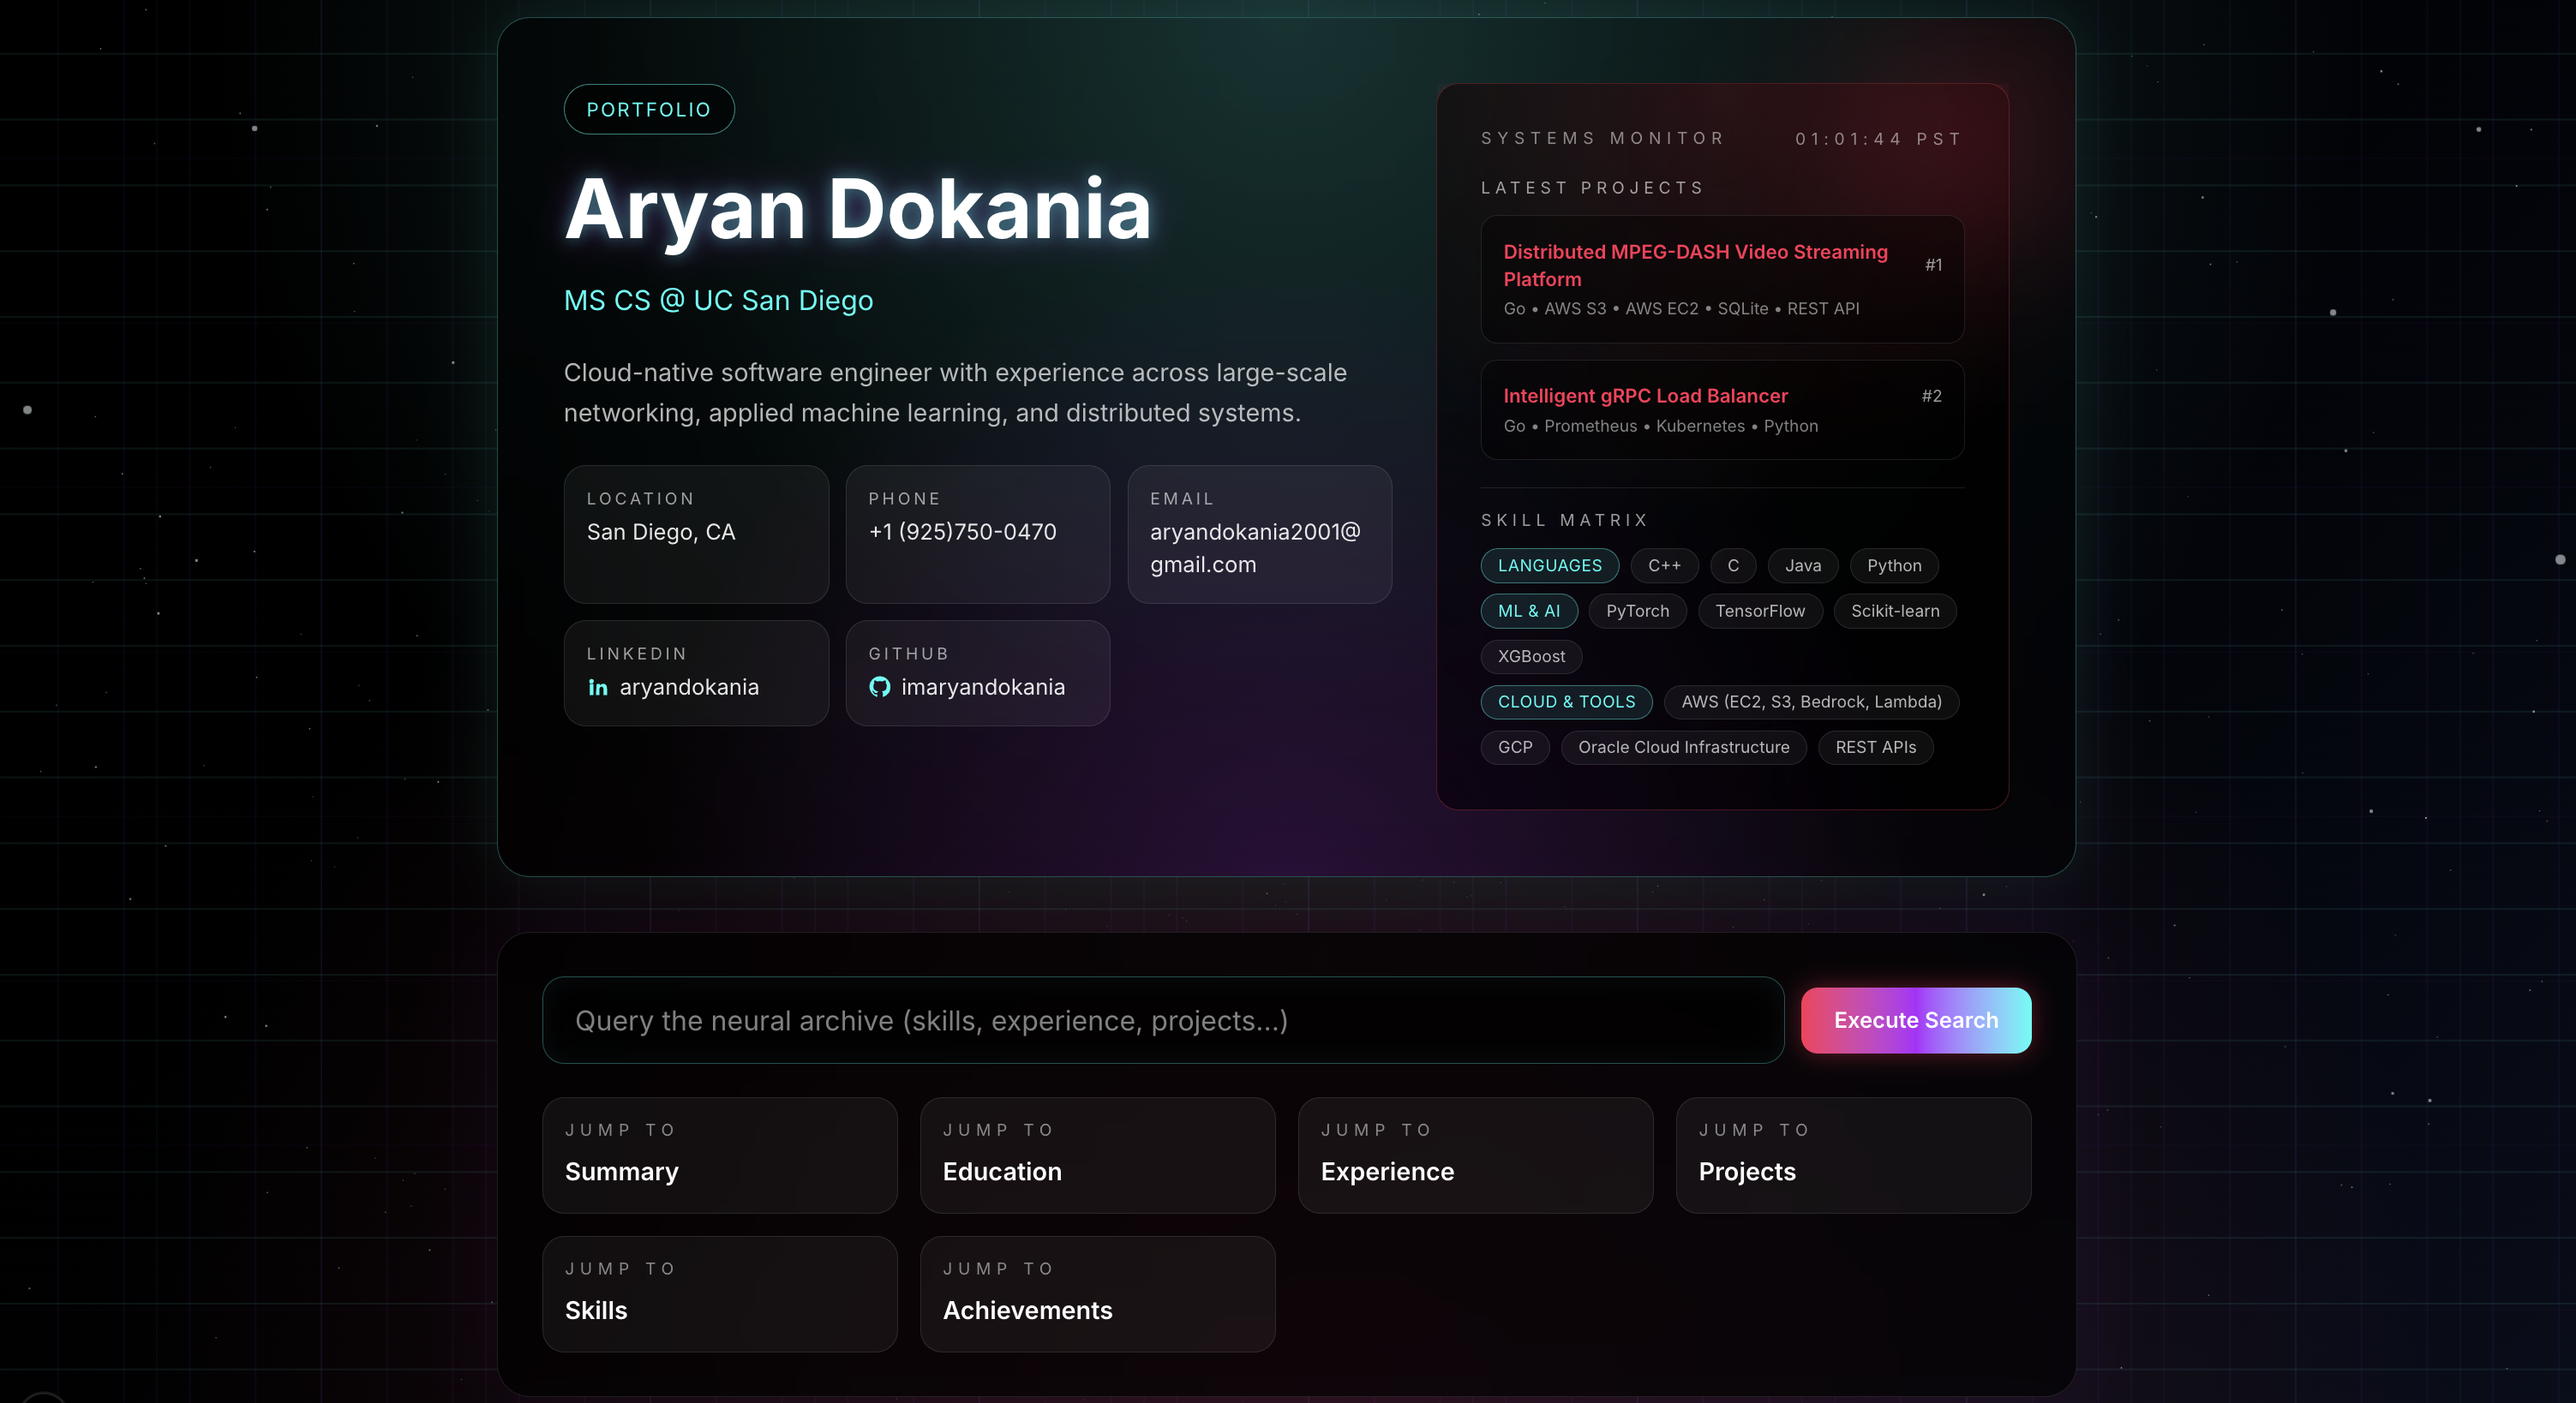
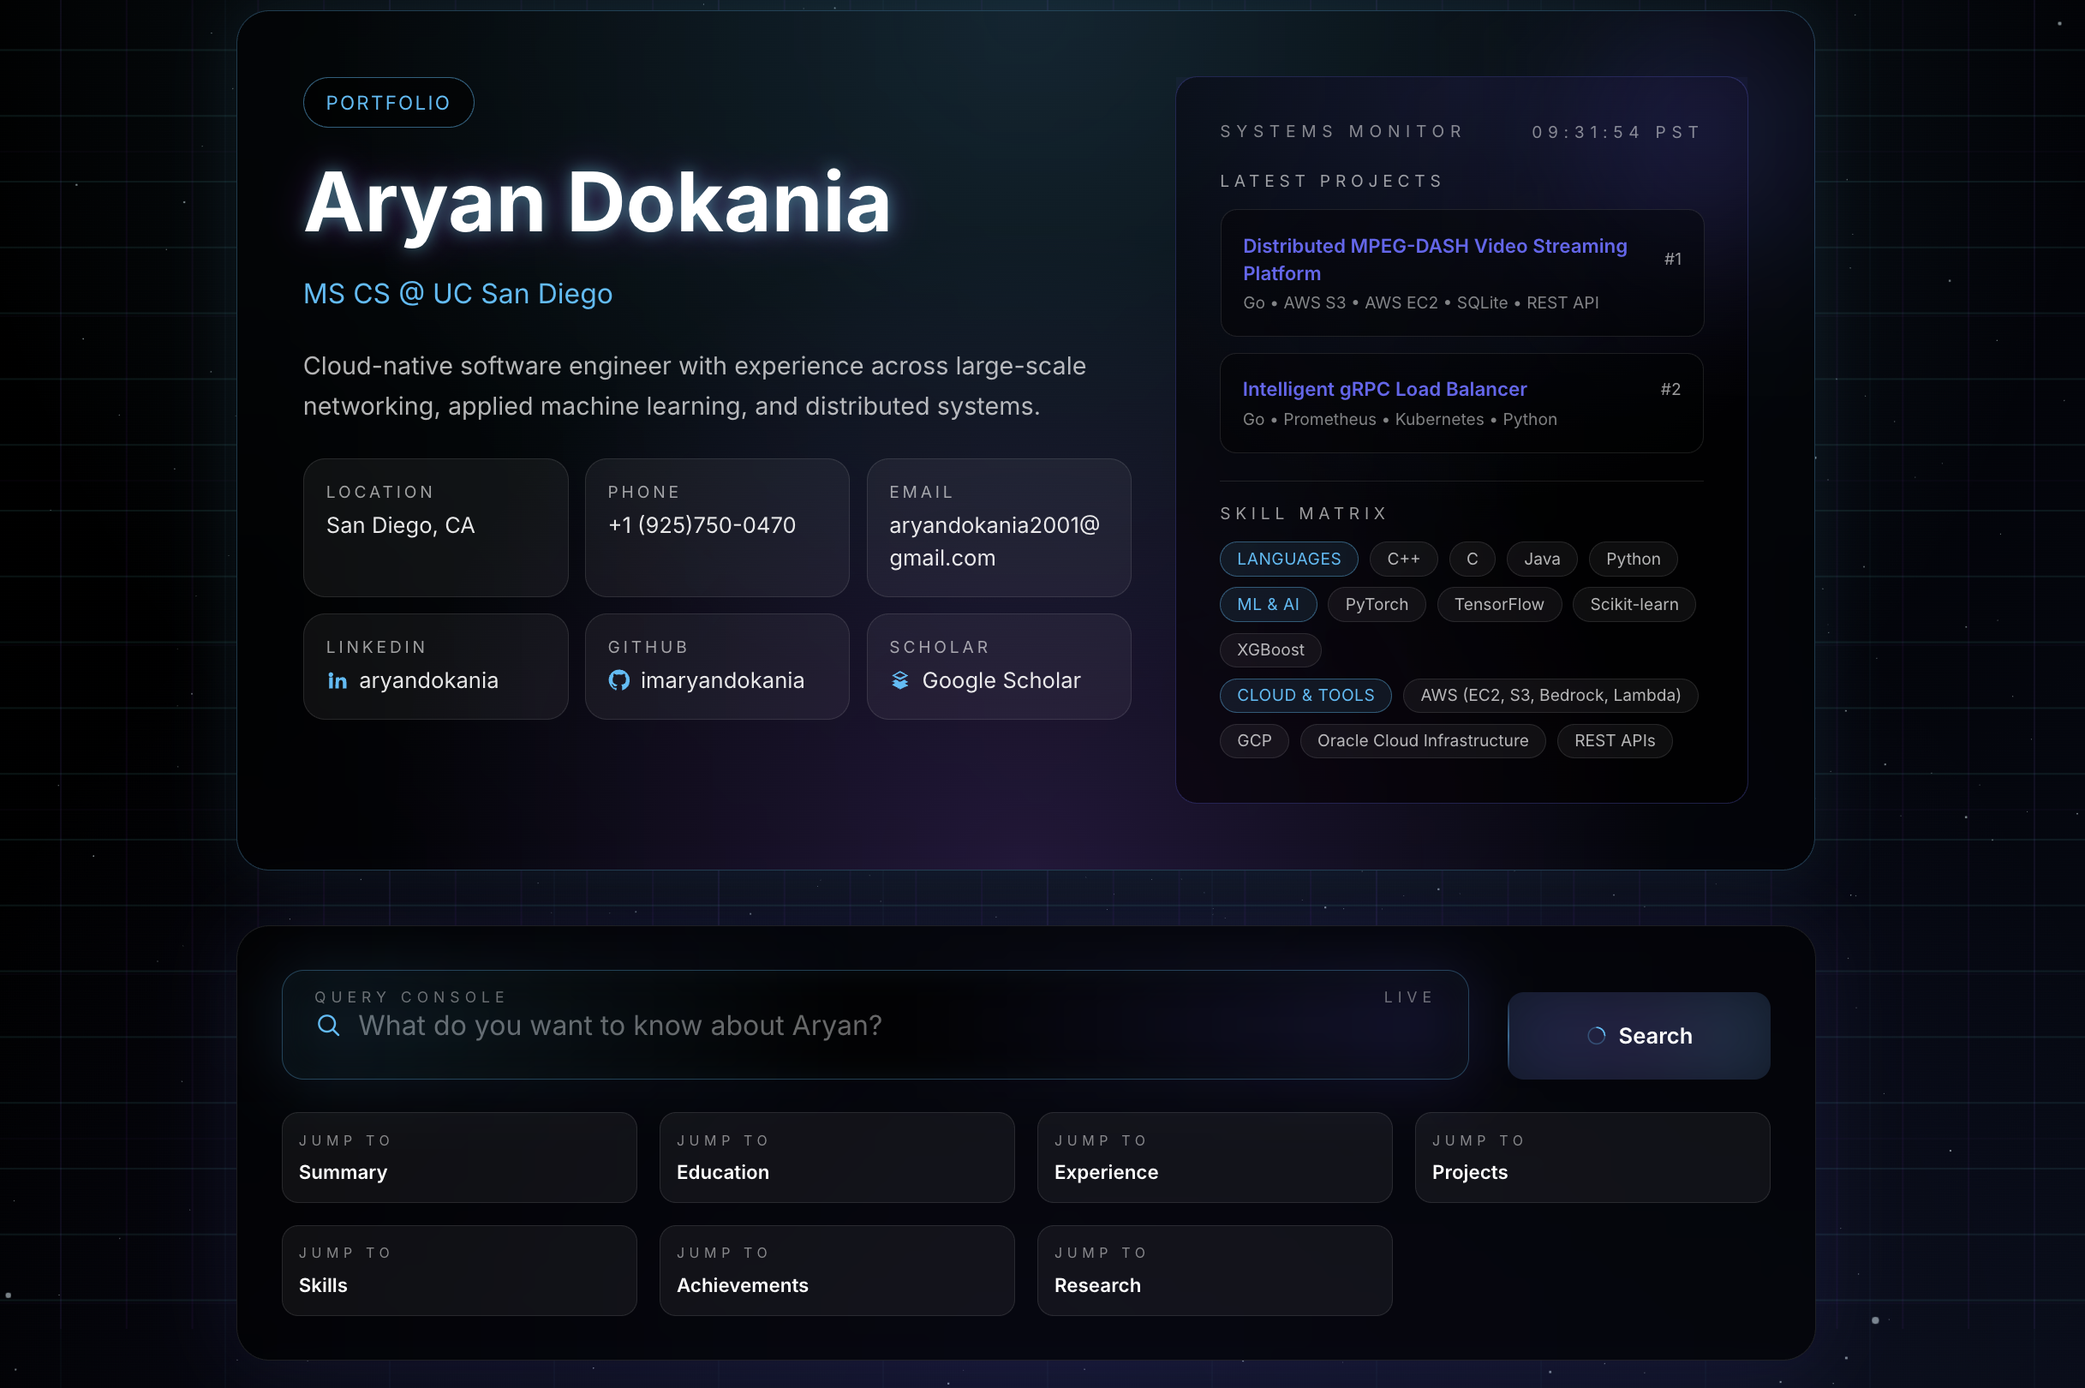
changes

diff --git a/src/app/layout.tsx b/src/app/layout.tsx
@@ -29,7 +29,7 @@ export const metadata: Metadata = {
     type: "website",
     images: [
       {
-        url: "/opengraph-image",
+        url: "/og-image.png",
         width: 1200,
         height: 630,
         alt: "Aryan Dokania - AI-assisted resume search experience"
@@ -41,7 +41,7 @@ export const metadata: Metadata = {
     title: "Aryan Dokania",
     description:
       "Interactive resume for Aryan Dokania with AI-assisted search over projects, experience, and skills.",
-    images: ["/opengraph-image"]
+    images: ["/og-image.png"]
   },
   icons: {
     icon: "/favicon.ico",
